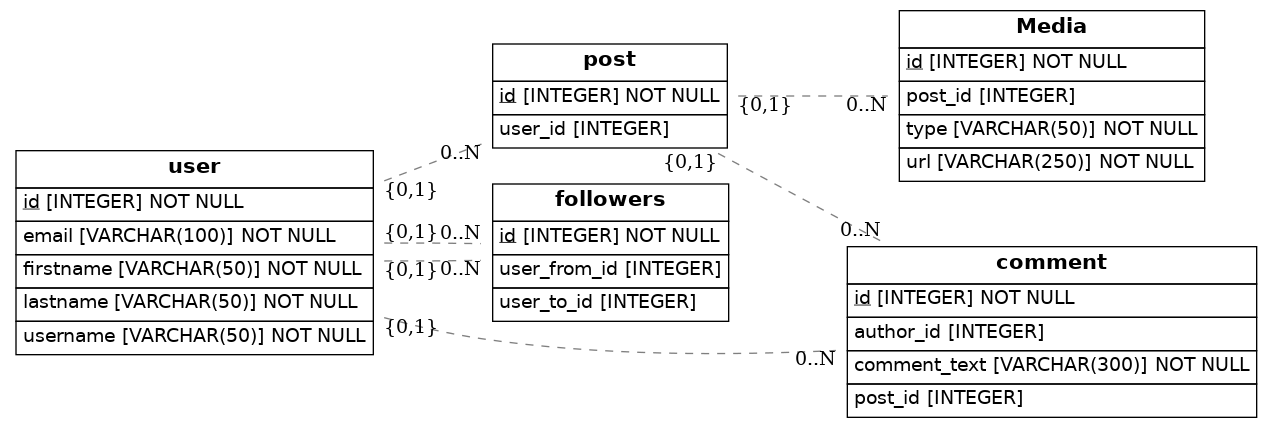
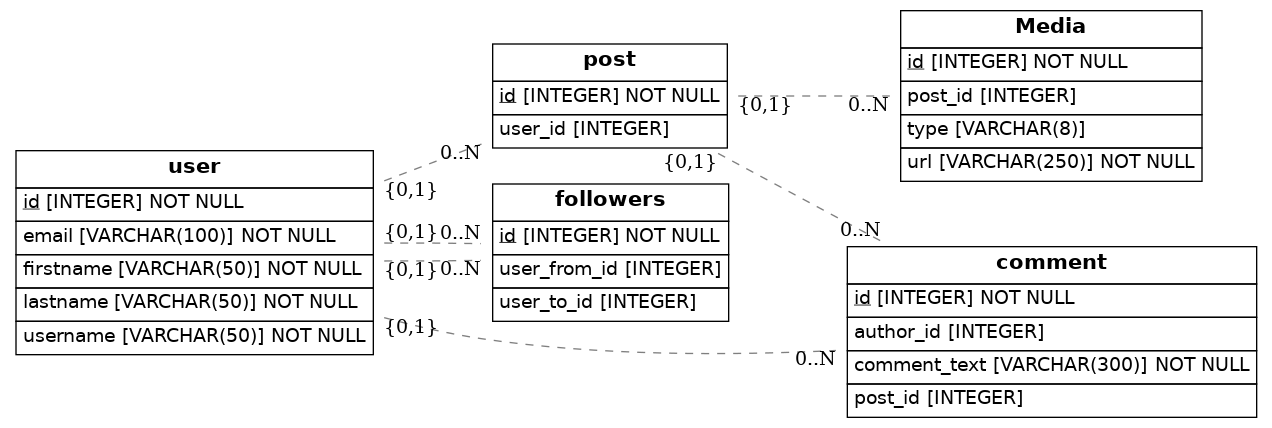
agregado enum

diff --git a/src/models.py b/src/models.py
@@ -4,6 +4,7 @@ from sqlalchemy import Column, ForeignKey, Integer, String, Enum
 from sqlalchemy.orm import relationship, declarative_base
 from sqlalchemy import create_engine
 from eralchemy2 import render_er
+import enum
 
 Base = declarative_base()
 
@@ -41,20 +42,21 @@ class Comment(Base):
     comment_text = Column(String(300), nullable=False)
     author_id = Column(Integer, ForeignKey('user.id'))
     post_id = Column(Integer, ForeignKey('post.id'))            
-    
+
+
+class MyEnum(enum.Enum):
+    Imagenes = 1
+    Audio = 2
+    Videos = 3
 
 
 class Media(Base):
     __tablename__ = 'Media'
     id = Column(Integer, primary_key=True)
-    type = Column(String(50), nullable=False)
+    type = Column(Enum(MyEnum))
     url = Column(String(250), nullable=False)
     post_id = Column(Integer, ForeignKey('post.id'))
   
-
-
-    def to_dict(self):
-        return {}
 
 ## Draw from SQLAlchemy base
 try:
